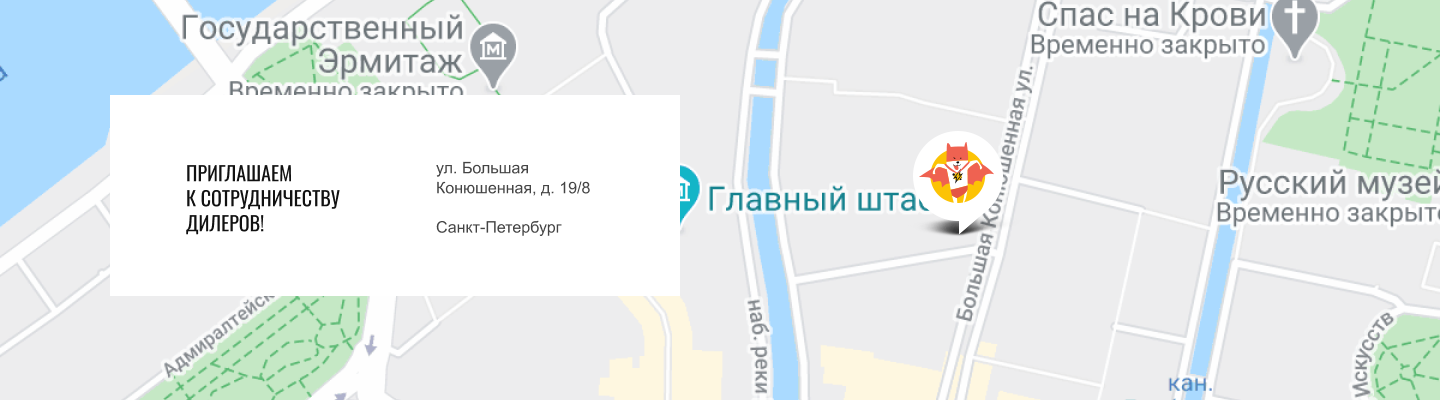
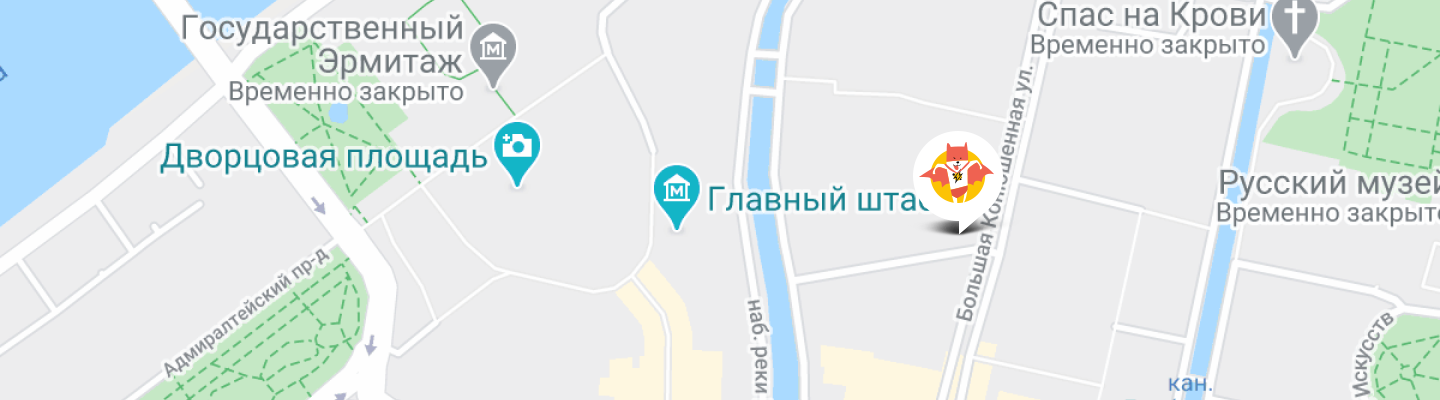
Адаптивная графика для страницы формы правки

diff --git a/source/form.html b/source/form.html
@@ -152,7 +152,7 @@
       </section>
       <section class="map map--additional">
         <div class="map__desktop">
-          <div class="box invite invite--additional">
+          <div class="box--form invite invite--additional">
             <h2 class="invite__title">Приглашаем<br>к&nbsp;сотрудничеству<br>дилеров!</h2>
             <div class="invite__text">
               <div class="invite__text--desktop">
@@ -161,7 +161,9 @@
               </div>
             </div>
           </div>
-          <iframe class="map__piece" src="https://www.google.com/maps/embed?pb=!1m18!1m12!1m3!1d2826.4575548880666!2d30.321076084584927!3d59.93865813419732!2m3!1f0!2f0!3f0!3m2!1i1024!2i768!4f13.1!3m3!1m2!1s0x4696310fca145cc1%3A0x42b32648d8238007!2z0JHQvtC70YzRiNCw0Y8g0JrQvtC90Y7RiNC10L3QvdCw0Y8g0YPQuy4sIDE5LzgsINCh0LDQvdC60YIt0J_QtdGC0LXRgNCx0YPRgNCzLCAxOTExODY!5e0!3m2!1sru!2sru!4v1620986085419!5m2!1sru!2sru" style="border: 0;" allowfullscreen="" loading="lazy" width="320" height="362"></iframe>
+          <div class="map__piece--wrapper box--map">
+            <iframe class="map__piece" src="https://www.google.com/maps/embed?pb=!1m18!1m12!1m3!1d2826.4575548880666!2d30.321076084584927!3d59.93865813419732!2m3!1f0!2f0!3f0!3m2!1i1024!2i768!4f13.1!3m3!1m2!1s0x4696310fca145cc1%3A0x42b32648d8238007!2z0JHQvtC70YzRiNCw0Y8g0JrQvtC90Y7RiNC10L3QvdCw0Y8g0YPQuy4sIDE5LzgsINCh0LDQvdC60YIt0J_QtdGC0LXRgNCx0YPRgNCzLCAxOTExODY!5e0!3m2!1sru!2sru!4v1620986085419!5m2!1sru!2sru" style="border: 0;" allowfullscreen="" loading="lazy" width="320" height="362"></iframe>
+          </div>
         </div>
       </section>
     </main>

diff --git a/source/sass/blocks/map.scss b/source/sass/blocks/map.scss
@@ -21,3 +21,45 @@
     position: relative;
   }
 }
+
+.map__image {
+  @media (min-width: $desktop-width) {
+    position: relative;
+  }
+}
+
+.map__piece--wrapper {
+  width: auto;
+  min-height: 362px;
+  background-color: $background-grey;
+  background-image: url("../img/footer/map-mobile.png");
+  background-repeat: no-repeat;
+
+  @media (min-resolution: 2dppx) {
+    background-image: url("../img/map-mobile2x.png");
+  }
+}
+
+@media (min-width: $tablet-width) {
+  .map__piece--wrapper {
+    width: 100%;
+    min-height: 400px;
+    background-image: url("../img/footer/map-tablet.png");
+
+    @media (min-resolution: 2dppx) {
+      background-image: url("../img/footer/map-tablet2x.png");
+    }
+  }
+}
+
+@media (min-width: $desktop-width) {
+  .map__piece--wrapper {
+    width: 100%;
+    min-height: 400px;
+    background-image: url("../img/footer/map-desktop.png");
+
+    @media (min-resolution: 2dppx) {
+      background-image: url("../img/footer/map-desktop2x.png");
+    }
+  }
+}

diff --git a/source/sass/global.scss b/source/sass/global.scss
@@ -65,6 +65,19 @@ body {
   }
 }
 
+.box--map {
+  max-width: $modile-width;
+  margin: 0 auto;
+
+  @media (min-width: $tablet-width) {
+    max-width: $tablet-width;
+  }
+
+  @media (min-width: $desktop-width) {
+    max-width: $desktop-width;
+  }
+}
+
 .button {
   background-color: $basic-green;
   color: $basic-white;
